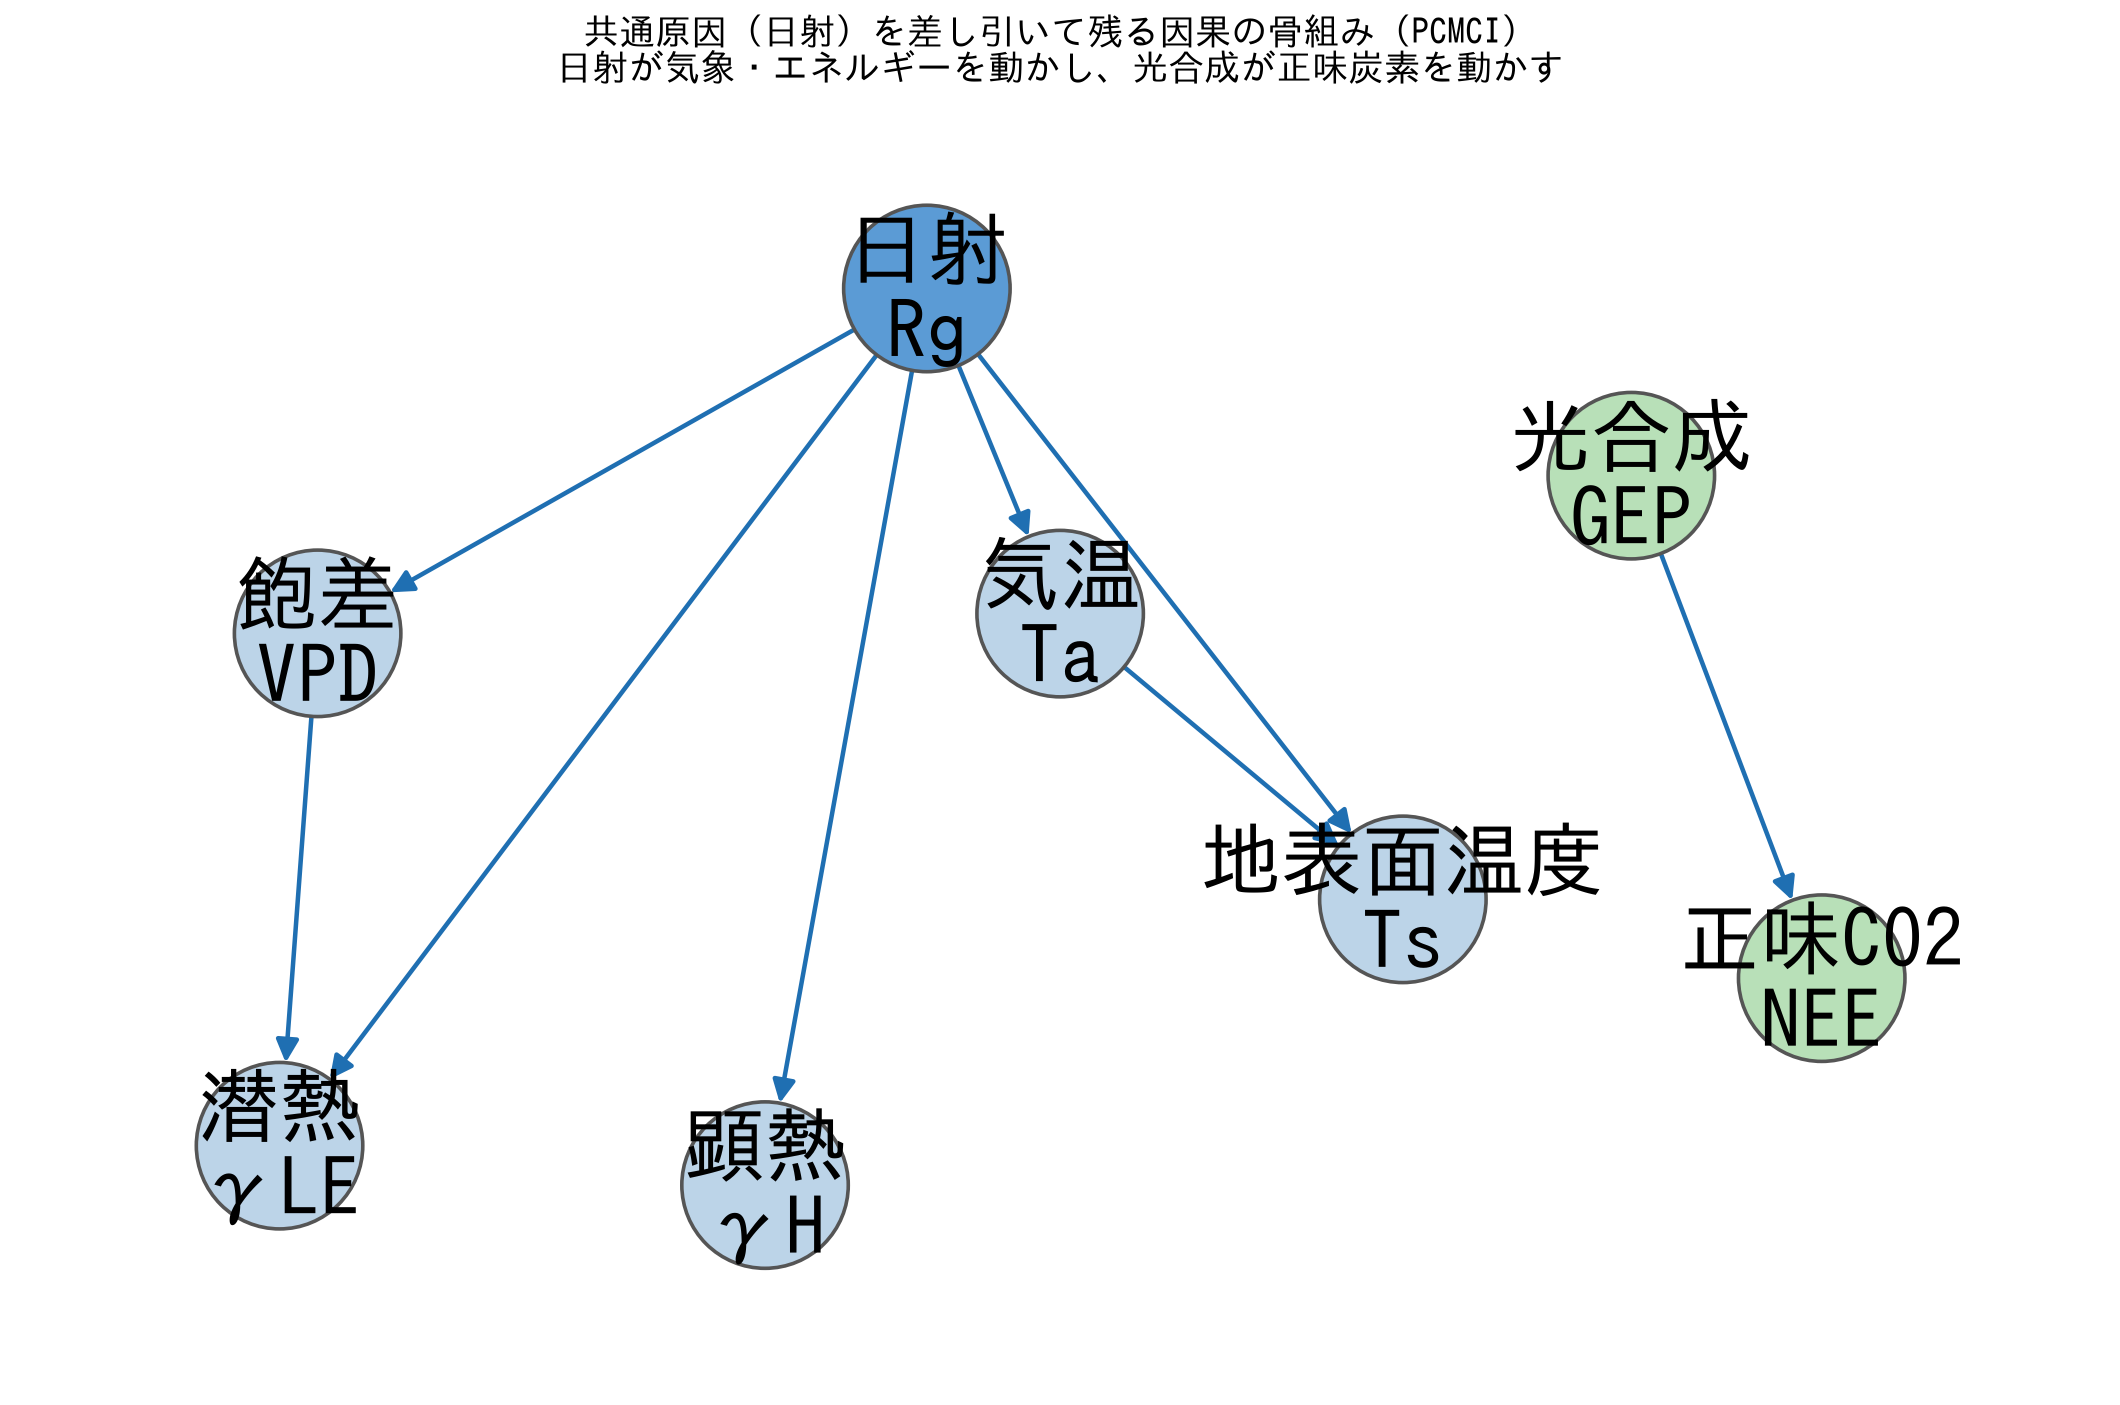
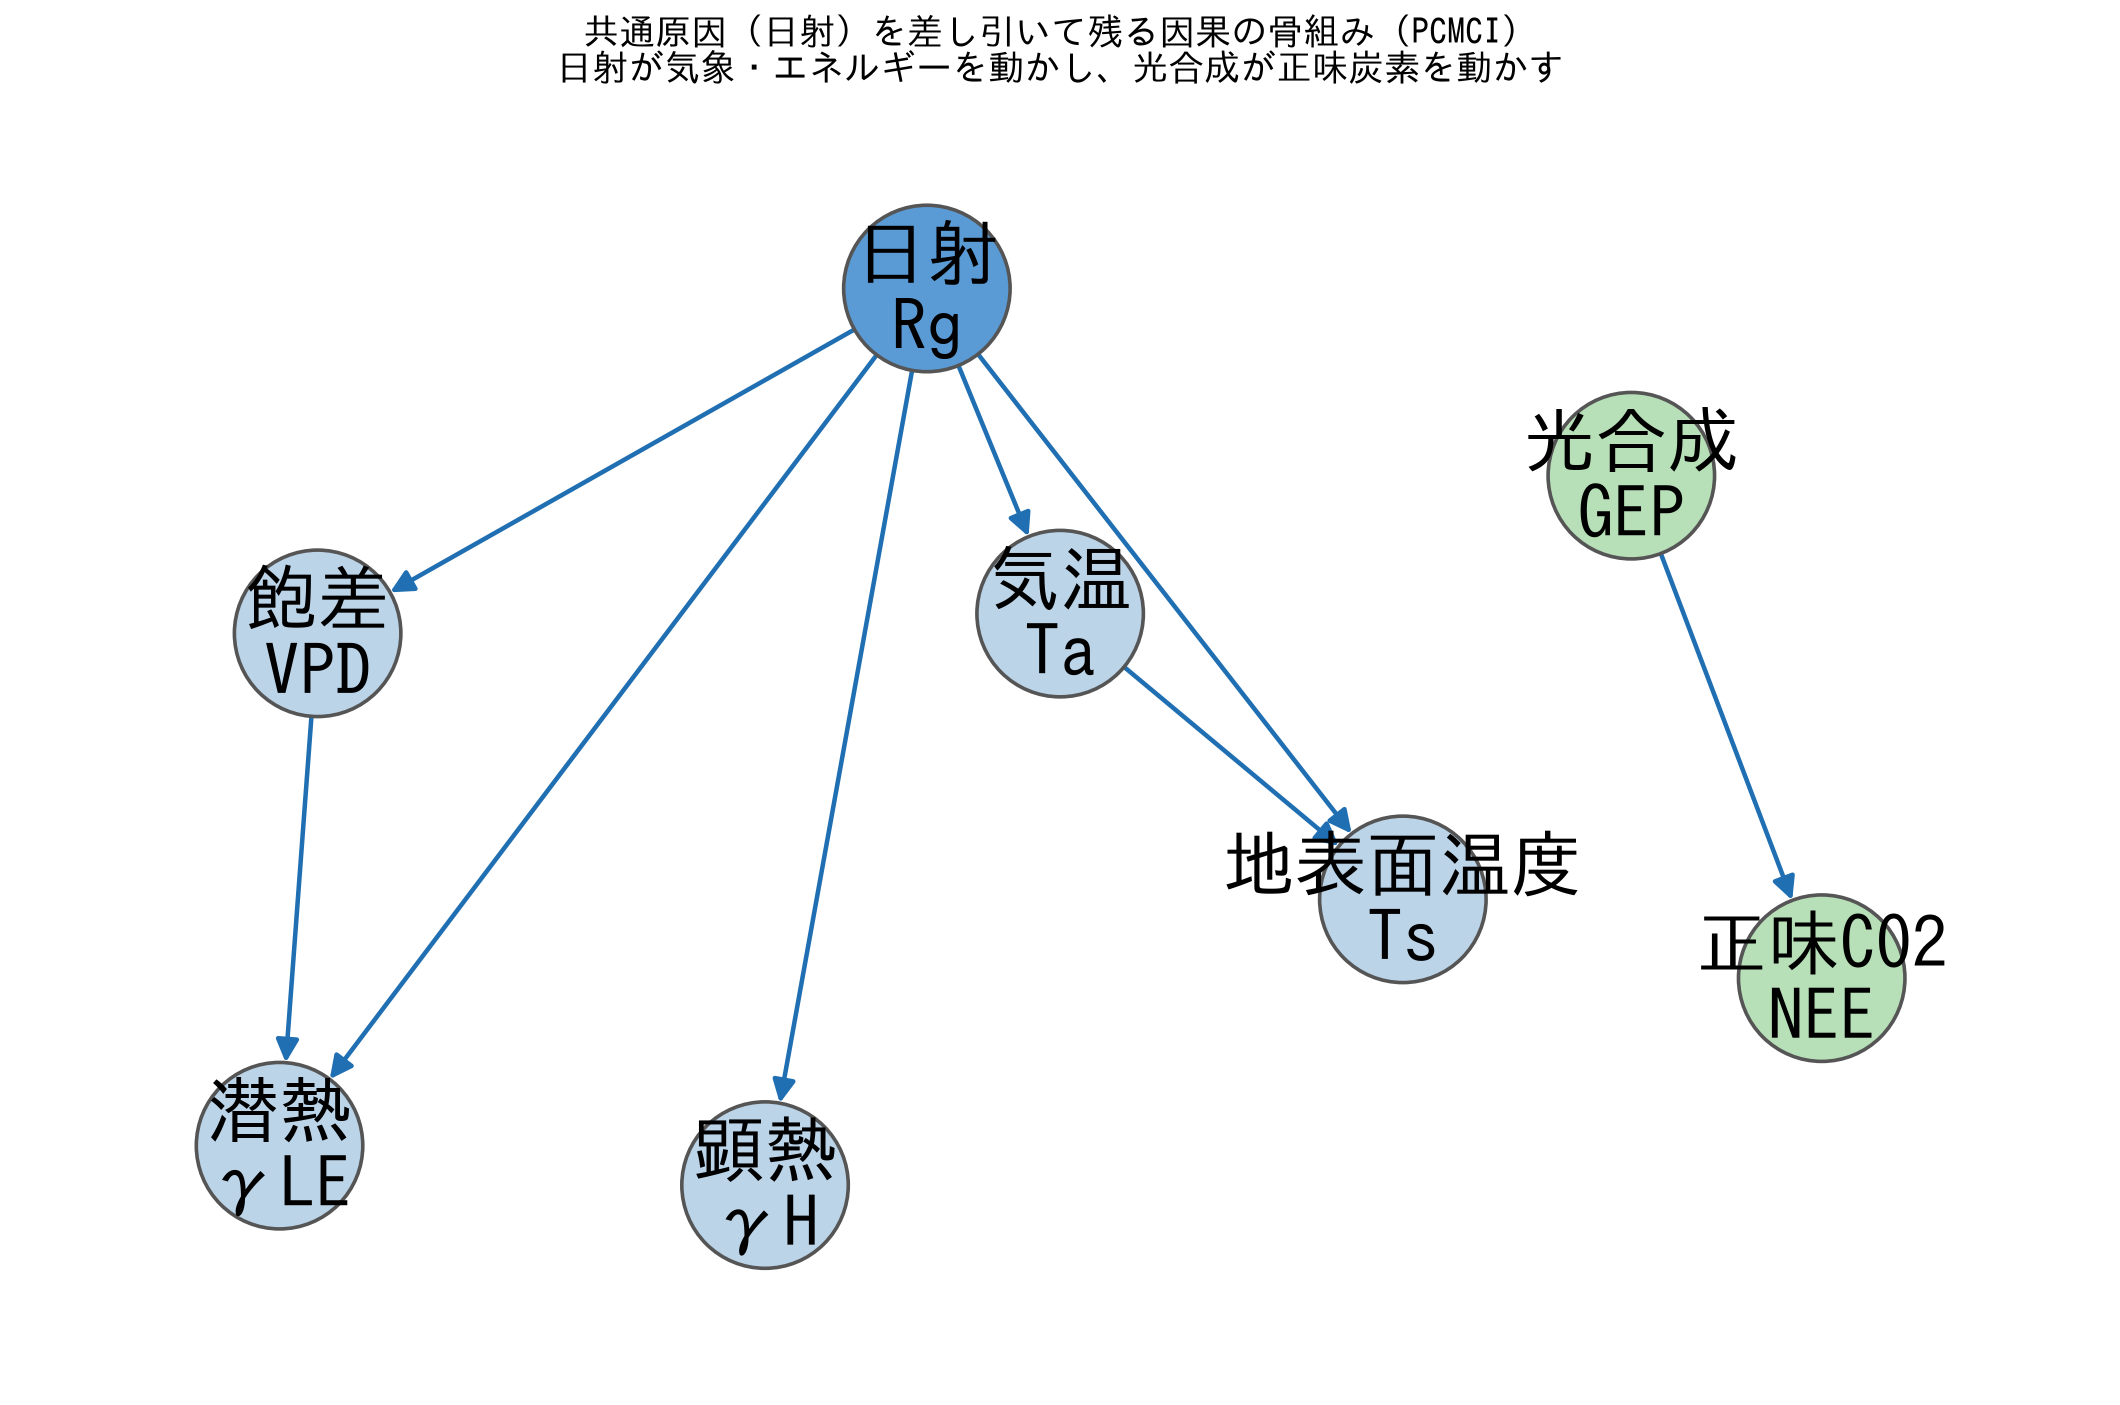
fig3の文字を40ptに調整

diff --git a/scripts/make_slides_figs.py b/scripts/make_slides_figs.py
@@ -122,8 +122,7 @@ def fig_skeleton():
     NS = 8500  # 円は少し小さめ
     nx.draw_networkx_nodes(G, pos, node_size=NS, node_color=ncol,
                            edgecolors="#555", linewidths=2, ax=ax)
-    # 文字は前回(15)の約3倍
-    nx.draw_networkx_labels(G, pos, labels=labels, font_size=45,
+    nx.draw_networkx_labels(G, pos, labels=labels, font_size=40,
                             font_family=JP.get_name(), ax=ax)
     # 小さい円でも矢印が文字に刺さらないよう、ターゲット側に大きめ余白
     nx.draw_networkx_edges(G, pos, arrowstyle="-|>", arrowsize=26,
